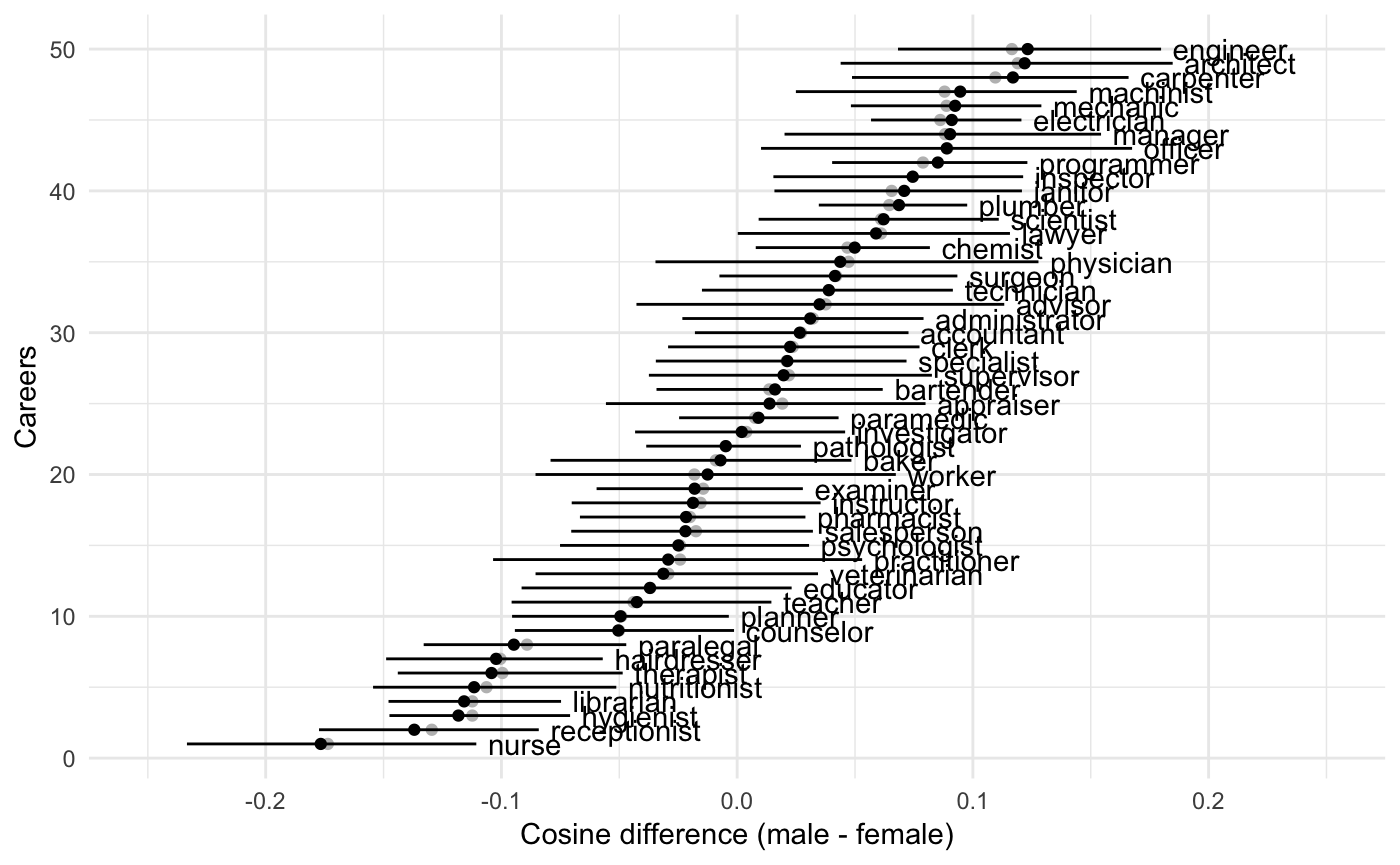
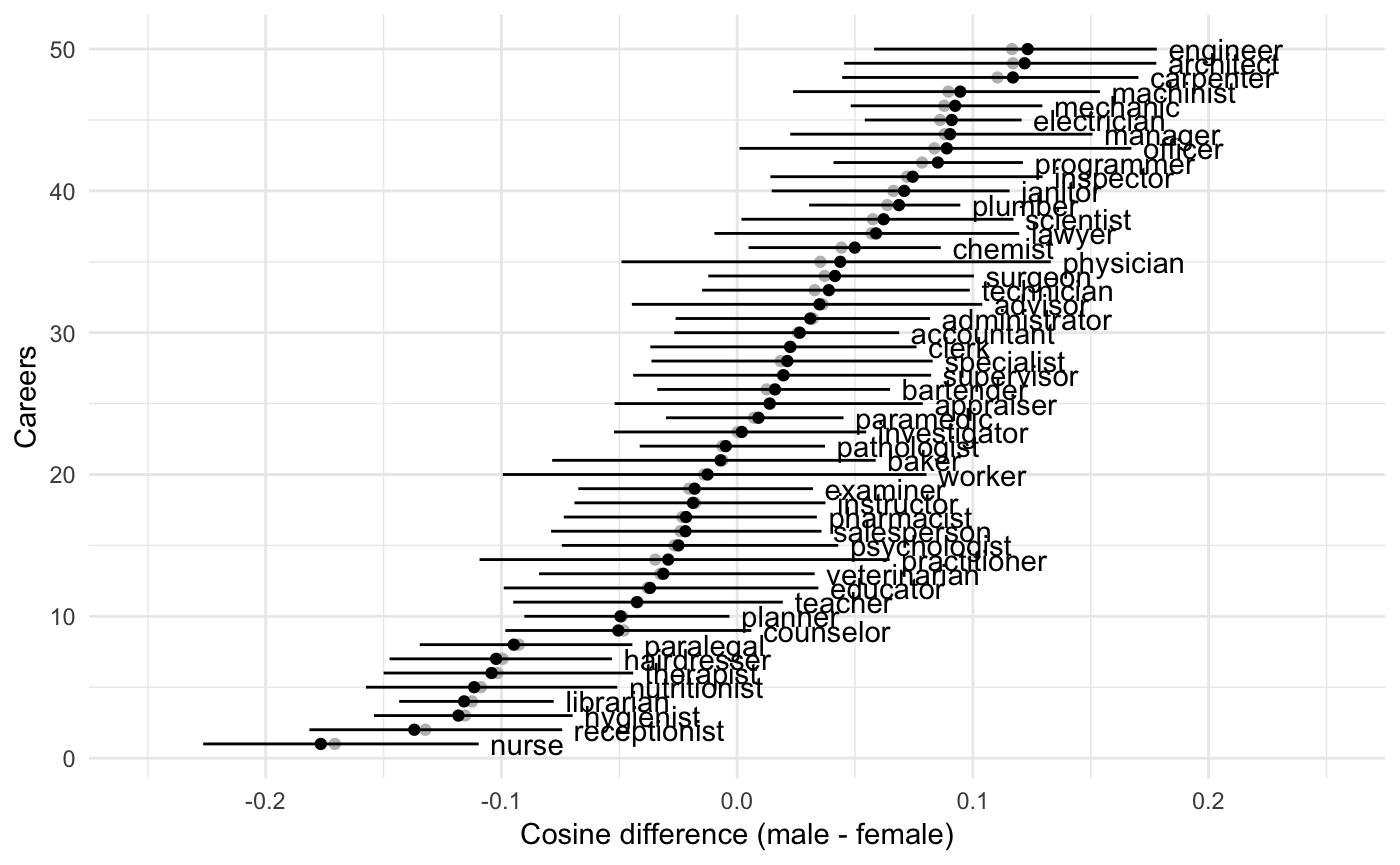
Updated vignette

diff --git a/docs/articles/using_your_own_vectors.html b/docs/articles/using_your_own_vectors.html
@@ -92,15 +92,24 @@
 <li>Acquire a list of words and associate them with a condition</li>
 <li>Extract vectors for each word</li>
 </ol>
-<div id="defining-your-own-items" class="section level2">
+<div id="associate-words-with-conditions" class="section level2">
 <h2 class="hasAnchor">
-<a href="#defining-your-own-items" class="anchor"></a>Defining Your Own Items</h2>
-<p>The statistical functions require a data frame that contains, at a minimum two columns: <code>Word</code> and <code>Condition</code>. There may also be a columns <code>Study</code> to note what the study will be called and optionally <code>role</code> to remind you which conditions are attributes and which targets.</p>
-<p>You can use the <code>cbn_make_items</code> to create a suitable set of items from vectors of words, condition labels, and study name.</p>
+<a href="#associate-words-with-conditions" class="anchor"></a>Associate words with conditions</h2>
+<p>To see the format required for items (words) take a look at the item information from the first WEAT study</p>
+<div class="sourceCode"><pre class="sourceCode r"><code class="sourceCode r">weat1 &lt;-<span class="st"> </span><span class="kw"><a href="../reference/cbn_get_items.html">cbn_get_items</a></span>(<span class="dt">type =</span> <span class="st">"WEAT"</span>)</code></pre></div>
+<p>the top of this data frame looks like</p>
+<div class="sourceCode"><pre class="sourceCode r"><code class="sourceCode r">  Study Condition     Word   Role
+<span class="dv">1</span> WEAT1   Flowers    aster target
+<span class="dv">2</span> WEAT1   Flowers   clover target
+<span class="dv">3</span> WEAT1   Flowers hyacinth target
+<span class="dv">4</span> WEAT1   Flowers marigold target
+<span class="dv">5</span> WEAT1   Flowers    poppy target
+<span class="dv">6</span> WEAT1   Flowers   azalea target</code></pre></div>
+<p>Here, the study is called <code>WEAT1</code>, the conditions are <code>Flowers</code>, <code>Insects</code>, the <code>target</code> roles, and <code>Pleasant</code> and <code>Unpleasant</code>, the <code>attribute</code> roles. The helper function <code>cbn_make_items</code> can be helpful for creating this structure for your own words. Naturally the words you have vectors for should match the words you have item information for.</p>
 </div>
-<div id="extracting-your-own-vectors" class="section level2">
+<div id="extract-vectors-for-each-word" class="section level2">
 <h2 class="hasAnchor">
-<a href="#extracting-your-own-vectors" class="anchor"></a>Extracting Your Own Vectors</h2>
+<a href="#extract-vectors-for-each-word" class="anchor"></a>Extract vectors for each word</h2>
 <p>The <code>cbn</code> package bundles all the vectors you will need to replicate the paper analyses using the GloVe 840B 300-dimensional Common Crawl data. If, however, you want to work with different items you’ll need to point the package at your own file of word vectors. The process is:</p>
 <ol style="list-style-type: decimal">
 <li>Download and unpack a text file of word vectors</li>
@@ -136,22 +145,11 @@ mat &lt;-<span class="st"> </span><span class="kw"><a href="../reference/cbn_ext
 <p>If you want to watch progress, set <code>verbose</code> to TRUE. A second argument <code>report_every</code> controls how often a progress dot appears. It defaults to 100000 (lines).</p>
 <p><code>mat</code> is a matrix with as many rows as <code>words</code> and as many column as the length of the vectors. Ifyou are using the vectors above that will be 300. The matrix has <code>words</code> as rownames and no column names. In the event that one of your words is not found in the vector file, the corresponding row of <code>mat</code> is filled with NAs.</p>
 </div>
-<div id="analyze-your-vectors" class="section level3">
-<h3 class="hasAnchor">
-<a href="#analyze-your-vectors" class="anchor"></a>Analyze Your Vectors</h3>
-<p>Once you’ve gotten your vectors set up you’ll need some item information. To see the format required take a look at the item information from the first WEAT study</p>
-<div class="sourceCode"><pre class="sourceCode r"><code class="sourceCode r">weat1 &lt;-<span class="st"> </span><span class="kw"><a href="../reference/cbn_get_items.html">cbn_get_items</a></span>(<span class="dt">type =</span> <span class="st">"WEAT"</span>)</code></pre></div>
-<p>the top of this data frame looks like</p>
-<div class="sourceCode"><pre class="sourceCode r"><code class="sourceCode r">  Study Condition     Word   Role
-<span class="dv">1</span> WEAT1   Flowers    aster target
-<span class="dv">2</span> WEAT1   Flowers   clover target
-<span class="dv">3</span> WEAT1   Flowers hyacinth target
-<span class="dv">4</span> WEAT1   Flowers marigold target
-<span class="dv">5</span> WEAT1   Flowers    poppy target
-<span class="dv">6</span> WEAT1   Flowers   azalea target</code></pre></div>
-<p>Here, the study is called <code>WEAT1</code>, the conditions are <code>Flowers</code>, <code>Insects</code>, the <code>target</code> roles, and <code>Pleasant</code> and <code>Unpleasant</code>, the <code>attribute</code> roles. The helper function <code>cbn_make_items</code> can be helpful for creating this structure for your own words. Naturally the words you have vectors for should match the words you have item information for.</p>
-<p>Now you can use the statistical functions as described in the other vignettes.</p>
 </div>
+<div id="analyze-your-vectors" class="section level2">
+<h2 class="hasAnchor">
+<a href="#analyze-your-vectors" class="anchor"></a>Analyze your vectors</h2>
+<p>With item information and corresponding vectors for your own words (or your own vectors) you can now use all the statistical functions described in the other vignettes.</p>
 </div>
   </div>
 
@@ -160,8 +158,9 @@ mat &lt;-<span class="st"> </span><span class="kw"><a href="../reference/cbn_ext
       <h2 class="hasAnchor">
 <a href="#tocnav" class="anchor"></a>Contents</h2>
       <ul class="nav nav-pills nav-stacked">
-<li><a href="#defining-your-own-items">Defining Your Own Items</a></li>
-      <li><a href="#extracting-your-own-vectors">Extracting Your Own Vectors</a></li>
+<li><a href="#associate-words-with-conditions">Associate words with conditions</a></li>
+      <li><a href="#extract-vectors-for-each-word">Extract vectors for each word</a></li>
+      <li><a href="#analyze-your-vectors">Analyze your vectors</a></li>
       </ul>
 </div>
       </div>

diff --git a/docs/articles/alternative_statistics.html b/docs/articles/alternative_statistics.html
@@ -117,7 +117,7 @@ its_vecs &lt;-<span class="st"> </span><span class="kw"><a href="../reference/cb
                  <span class="dt">se.calc =</span> <span class="st">"quantile"</span>)
 res
 <span class="co">#&gt;        diff        lwr       upr    median</span>
-<span class="co">#&gt; 1 0.1547512 0.09196448 0.2019431 0.1490061</span></code></pre></div>
+<span class="co">#&gt; 1 0.1547512 0.09589897 0.2052987 0.1499265</span></code></pre></div>
 <p>Apparently flowers are more pleasant than insects.</p>
 </div>
 <div id="replicating-wefat" class="section level2">
@@ -131,13 +131,13 @@ its_vecs &lt;-<span class="st"> </span><span class="kw"><a href="../reference/cb
                   <span class="dt">a_name =</span> <span class="st">"MaleAttributes"</span>, <span class="dt">b_name =</span> <span class="st">"FemaleAttributes"</span>,
                   <span class="dt">se.calc =</span> <span class="st">"quantile"</span>)
 <span class="kw">head</span>(res)
-<span class="co">#&gt;        Careers       diff        lwr         upr      median</span>
-<span class="co">#&gt; 1        nurse -0.1766406 -0.2334092 -0.11065300 -0.17364983</span>
-<span class="co">#&gt; 2 receptionist -0.1369632 -0.1773739 -0.08415232 -0.12953749</span>
-<span class="co">#&gt; 3    hygienist -0.1182356 -0.1475021 -0.07087171 -0.11234448</span>
-<span class="co">#&gt; 4    librarian -0.1158335 -0.1478928 -0.07470320 -0.11236903</span>
-<span class="co">#&gt; 5 nutritionist -0.1115838 -0.1544516 -0.05126493 -0.10632618</span>
-<span class="co">#&gt; 6    therapist -0.1042064 -0.1439622 -0.04855294 -0.09957385</span></code></pre></div>
+<span class="co">#&gt;        Careers       diff        lwr         upr     median</span>
+<span class="co">#&gt; 1        nurse -0.1766406 -0.2265163 -0.10965455 -0.1706386</span>
+<span class="co">#&gt; 2 receptionist -0.1369632 -0.1814540 -0.07422269 -0.1322328</span>
+<span class="co">#&gt; 3    hygienist -0.1182356 -0.1540728 -0.06979447 -0.1154005</span>
+<span class="co">#&gt; 4    librarian -0.1158335 -0.1433721 -0.07780748 -0.1124864</span>
+<span class="co">#&gt; 5 nutritionist -0.1115838 -0.1574553 -0.05085981 -0.1086956</span>
+<span class="co">#&gt; 6    therapist -0.1042064 -0.1499876 -0.04410492 -0.1017079</span></code></pre></div>
 <p>This is a bit hard to interpret, so we’ll make a picture</p>
 <div class="sourceCode"><pre class="sourceCode r"><code class="sourceCode r"><span class="kw"><a href="http://www.rdocumentation.org/packages/ggplot2/topics/ggplot">ggplot</a></span>(res, <span class="kw"><a href="http://www.rdocumentation.org/packages/ggplot2/topics/aes">aes</a></span>(<span class="dt">x =</span> median, <span class="dt">y =</span> <span class="dv">1</span><span class="op">:</span><span class="kw">nrow</span>(res))) <span class="op">+</span>
 <span class="st">  </span><span class="kw"><a href="http://www.rdocumentation.org/packages/ggplot2/topics/geom_point">geom_point</a></span>(<span class="dt">col =</span> <span class="st">"grey"</span>) <span class="op">+</span>

diff --git a/docs/articles/replication_replication.html b/docs/articles/replication_replication.html
@@ -267,7 +267,7 @@ vecs &lt;-<span class="st"> </span><span class="kw"><a href="../reference/cbn_ge
 <span class="kw"><a href="../reference/weat_perm.html">weat_perm</a></span>(its, vecs, <span class="dt">x_name =</span> <span class="st">"MentalDisease"</span>, <span class="dt">y_name =</span> <span class="st">"PhysicalDisease"</span>, 
           <span class="dt">a_name =</span> <span class="st">"Temporary"</span>, <span class="dt">b_name =</span> <span class="st">"Permanent"</span>, <span class="dv">1000</span>)
 <span class="co">#&gt;      S_xyab        d p_value</span>
-<span class="co">#&gt; 1 0.5051217 1.382755   0.005</span></code></pre></div>
+<span class="co">#&gt; 1 0.5051217 1.382755   0.003</span></code></pre></div>
 </div>
 <div id="young-vs-old-peoples-names" class="section level3">
 <h3 class="hasAnchor">
@@ -284,7 +284,7 @@ vecs &lt;-<span class="st"> </span><span class="kw"><a href="../reference/cbn_ge
 <span class="kw"><a href="../reference/weat_perm.html">weat_perm</a></span>(its, vecs, <span class="dt">x_name =</span> <span class="st">"YoungNames"</span>, <span class="dt">y_name =</span> <span class="st">"OldNames"</span>, 
           <span class="dt">a_name =</span> <span class="st">"Pleasant"</span>, <span class="dt">b_name =</span> <span class="st">"Unpleasant"</span>, <span class="dv">1000</span>)
 <span class="co">#&gt;      S_xyab        d p_value</span>
-<span class="co">#&gt; 1 0.3808673 1.212891   0.007</span></code></pre></div>
+<span class="co">#&gt; 1 0.3808673 1.212891   0.003</span></code></pre></div>
 </div>
 </div>
 <div id="wefat-figure-1" class="section level2">
